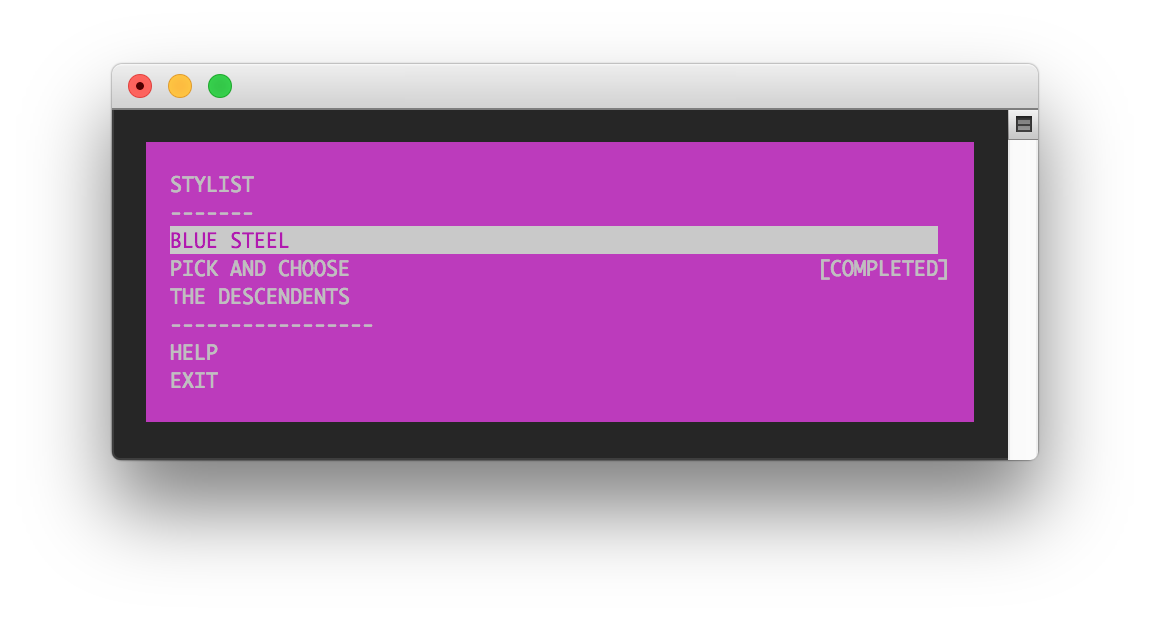
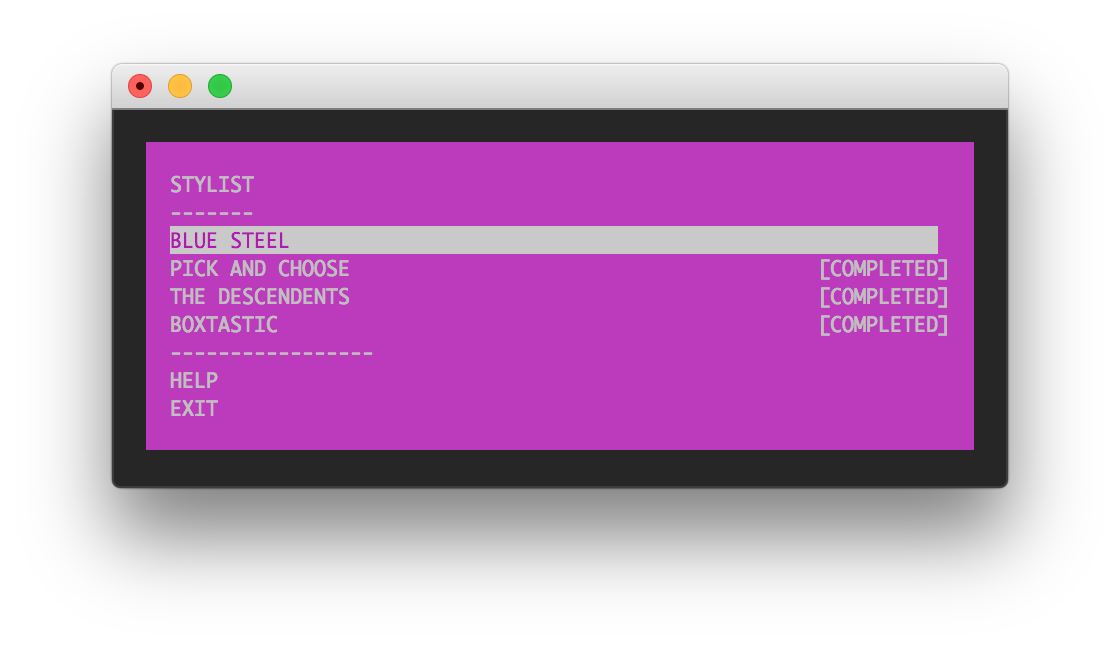
Add box model exercise

Changed region(s): [[0.0938, 0.0919, 0.9062, 0.7661]]

diff --git a/problems/boxtastic/verify.js b/problems/boxtastic/verify.js
@@ -1,0 +1,68 @@
+var system = require('system')
+var fs = require('fs')
+var page = require('webpage').create()
+
+page.open(system.args[1], function () {
+  var css = ''
+
+  try {
+    css = fs.read(system.args[2])
+  } catch (er) {
+    console.error(er)
+    phantom.exit(404)
+  }
+
+  console.log(css)
+
+  // Add the CSS
+  page.evaluate(function (css) {
+    var style = document.createElement('style')
+    style.type = 'text/css'
+    style.textContent = css
+    document.head.appendChild(style)
+  }, css)
+
+  // Verify the solution
+  var error = page.evaluate(function () {
+    var box = document.getElementById('box')
+    var boxStyle = window.getComputedStyle(box)
+
+    var width = box.offsetWidth + parseInt(boxStyle['margin-left']) + parseInt(boxStyle['margin-right'])
+    var height = box.offsetHeight + parseInt(boxStyle['margin-top']) + parseInt(boxStyle['margin-bottom'])
+
+    if (width != 200) {
+      return new Error('Width "' + width + '" is not 200px')
+    }
+
+    if (height != 100) {
+      return new Error('Height "' + height + '" is not 100px')
+    }
+
+    var properties = [
+      'margin-top',
+      'border-top',
+      'padding-top',
+      'height',
+      'padding-bottom',
+      'border-bottom',
+      'margin-bottom',
+      'margin-left',
+      'border-left',
+      'padding-left',
+      'width',
+      'padding-right',
+      'border-right',
+      'margin-right'
+    ]
+
+    for (var i = 0; i < properties.length; i++) {
+      if (parseInt(boxStyle[properties[i]]) == 0) {
+        return new Error(properties[i] + ' not set')
+      }
+    }
+  })
+
+  if (error) console.error(error.message)
+
+  phantom.exit(error ? 500 : 0)
+})

diff --git a/problems/boxtastic/index.js b/problems/boxtastic/index.js
@@ -1,0 +1,22 @@
+var fs = require('fs')
+var path = require('path')
+var execFile = require('child_process').execFile
+var phantomjs = require('phantomjs')
+
+exports.problem = fs.createReadStream(path.join(__dirname, 'problem.txt'))
+exports.solution = fs.createReadStream(path.join(__dirname, 'solution.txt'))
+
+exports.verify = function (args, cb) {
+  var verifyScriptPath = path.join(__dirname, 'verify.js')
+  var verifyHtmlPath = path.join(__dirname, 'verify.html')
+  var solutionCssPath = path.resolve(args[0])
+
+  var childArgs = [verifyScriptPath, verifyHtmlPath, solutionCssPath]
+
+  execFile(phantomjs.path, childArgs, function (er, stdout, stderr) {
+    if (stdout) console.log(stdout)
+    if (stderr) console.error(stderr)
+    if (er) return cb(false)
+    cb(true)
+  })
+}

diff --git a/runner.js b/runner.js
@@ -6,7 +6,8 @@ var shop = adventure({name: 'stylist', fg: 'white', bg: 'magenta'})
 var problems = [
   'blue-steel',
   'pick-and-choose',
-  'the-descendents'
+  'the-descendents',
+  'boxtastic'
 ]
 
 problems.forEach(function (prob) {

diff --git a/problems/boxtastic/verify.html b/problems/boxtastic/verify.html
@@ -1,0 +1,7 @@
+<!doctype html>
+<html>
+<head></head>
+<body>
+  <div id="box"></div>
+</body>
+</html>
